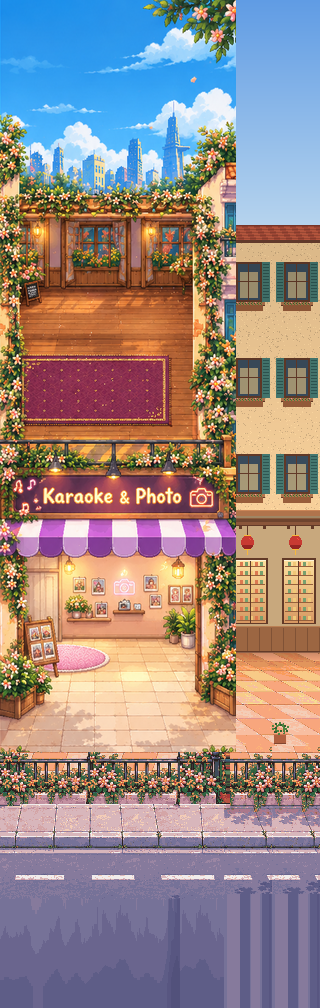
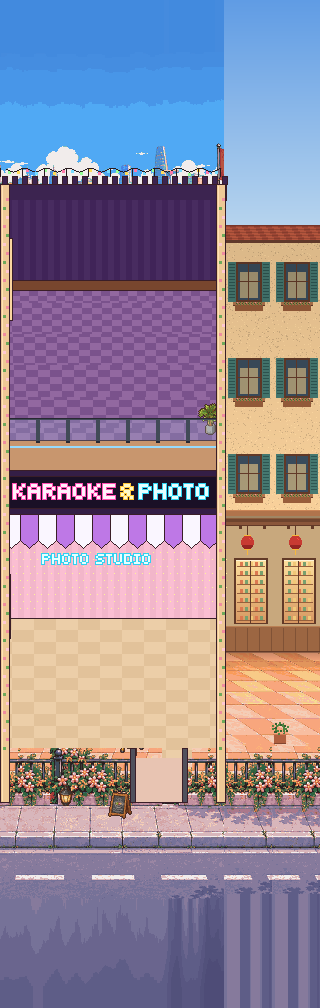
Lẩu Ơi v1.19e: khối Karaoke & Photo vẽ lại theo bản demo cũ
- Khối tím 2 tầng riêng bên phải: phòng Karaoke sàn caro tím, lan can kính, biển neon KARAOKE & PHOTO,
  mái che sọc tím, Photo Studio tường hồng chấm bi, cột hoa leo hai bên, cổng riêng ngoài vỉa hè
- Tầng chưa mở kéo cửa cuốn; dời đồ giải trí và khách cho khớp phòng mới

Claude-Session: https://claude.ai/code/session_01BD8ysNy2UsXiFAiTavnXvs

diff --git a/web/quanlau/src/config.js b/web/quanlau/src/config.js
@@ -578,17 +578,17 @@ export const DECO = [
   { id: 'db_xuongvien', cat: 'dacbiet', name: 'Xưởng Viên Thả Lẩu', price: 0, amb: 18, source: 'box', box: 'bt_xuongvien', effect: { tipMult: 1.15 }, desc: 'Viên cá, viên tôm ra liên tục. Tip +15%.' },
   { id: 'db_phatra', cat: 'dacbiet', name: 'Máy Pha Trà Thượng Hạng', price: 0, amb: 18, source: 'box', box: 'bt_phatra', effect: { tipMult: 1.1, patienceMult: 1.08 }, desc: 'Ấm men ngọc rót trà mời khách. Tip +10%, kiên nhẫn +8%.' },
   // v1.19 ĐỒ PHÒNG GIẢI TRÍ (bản demo): mở bằng nhiệm vụ phòng giải trí hoặc rút Hộp mù; fun = tầng + chỗ đặt (world px)
-  { id: 'gt_phong', cat: 'giaitri', name: 'Phông chụp + vòm hoa giấy', price: 0, amb: 8, source: 'box', box: 'bx_gt_phong', fun: { floor: 1, x: 230, y: 236 }, effect: { demandMult: 1.04 }, desc: 'Góc sống ảo của quán. Khách +4%.' },
-  { id: 'gt_denvong', cat: 'giaitri', name: 'Đèn vòng chụp ảnh', price: 0, amb: 3, source: 'box', box: 'bx_gt_denvong', fun: { floor: 1, x: 246, y: 252 }, effect: { tipMult: 1.03 }, desc: 'Ảnh lung linh, khách vui tip thêm. Tip +3%.' },
-  { id: 'gt_bongbay', cat: 'giaitri', name: 'Chùm bóng bay', price: 0, amb: 3, source: 'box', box: 'bx_gt_bongbay', fun: { floor: 1, x: 270, y: 290 }, effect: { patienceMult: 1.02 }, desc: 'Kiên nhẫn +2%.' },
-  { id: 'gt_polaroid', cat: 'giaitri', name: 'Tường ảnh polaroid', price: 0, amb: 4, source: 'box', box: 'bx_gt_polaroid', fun: { floor: 1, x: 270, y: 199, wall: true }, effect: { patienceMult: 1.03 }, desc: 'Khách ngắm ảnh trong lúc chờ. Kiên nhẫn +3%.' },
-  { id: 'gt_mayanh', cat: 'giaitri', name: 'Máy chụp ảnh lấy liền (to)', price: 0, amb: 8, source: 'box', box: 'bx_gt_mayanh', fun: { floor: 1, x: 272, y: 252 }, effect: { demandMult: 1.05 }, desc: 'Khách +5%.' },
-  { id: 'gt_gapthu', cat: 'giaitri', name: 'Máy gắp thú', price: 0, amb: 6, source: 'box', box: 'bx_gt_gapthu', fun: { floor: 1, x: 230, y: 288 }, effect: { patienceMult: 1.05 }, desc: 'Trẻ em mê lắm. Kiên nhẫn +5%.' },
-  { id: 'gt_neon', cat: 'giaitri', name: 'Bảng neon KARAOKE', price: 0, amb: 4, source: 'box', box: 'bx_gt_neon', fun: { floor: 2, x: 222, y: 33, wall: true }, effect: { demandMult: 1.02 }, desc: 'Khách +2%.' },
-  { id: 'gt_disco', cat: 'giaitri', name: 'Quả cầu disco', price: 0, amb: 4, source: 'box', box: 'bx_gt_disco', fun: { floor: 2, x: 264, y: 24, wall: true }, effect: { tipMult: 1.03 }, desc: 'Tip +3%.' },
-  { id: 'gt_sankhau', cat: 'giaitri', name: 'Sân khấu karaoke', price: 0, amb: 12, source: 'box', box: 'bx_gt_sankhau', fun: { floor: 2, x: 232, y: 84 }, effect: { demandMult: 1.06, patienceMult: 1.04 }, desc: 'Màn hình, loa, micro đủ bộ. Khách +6%, kiên nhẫn +4%.' },
-  { id: 'gt_quaynuoc', cat: 'giaitri', name: 'Quầy nước karaoke', price: 0, amb: 6, source: 'box', box: 'bx_gt_quaynuoc', fun: { floor: 2, x: 272, y: 80 }, effect: { tipMult: 1.05 }, desc: 'Tip +5%.' },
-  { id: 'gt_sofa', cat: 'giaitri', name: 'Sofa đỏ + bàn trà', price: 0, amb: 6, source: 'box', box: 'bx_gt_sofa', fun: { floor: 2, x: 236, y: 120 }, effect: { patienceMult: 1.05 }, desc: 'Khách ngồi chờ thoải mái. Kiên nhẫn +5%.' },
+  { id: 'gt_phong', cat: 'giaitri', name: 'Phông chụp + vòm hoa giấy', price: 0, amb: 8, source: 'box', box: 'bx_gt_phong', fun: { floor: 1, x: 243, y: 232 }, effect: { demandMult: 1.04 }, desc: 'Góc sống ảo của quán. Khách +4%.' },
+  { id: 'gt_denvong', cat: 'giaitri', name: 'Đèn vòng chụp ảnh', price: 0, amb: 3, source: 'box', box: 'bx_gt_denvong', fun: { floor: 1, x: 210, y: 256 }, effect: { tipMult: 1.03 }, desc: 'Ảnh lung linh, khách vui tip thêm. Tip +3%.' },
+  { id: 'gt_bongbay', cat: 'giaitri', name: 'Chùm bóng bay', price: 0, amb: 3, source: 'box', box: 'bx_gt_bongbay', fun: { floor: 1, x: 266, y: 288 }, effect: { patienceMult: 1.02 }, desc: 'Kiên nhẫn +2%.' },
+  { id: 'gt_polaroid', cat: 'giaitri', name: 'Tường ảnh polaroid', price: 0, amb: 4, source: 'box', box: 'bx_gt_polaroid', fun: { floor: 1, x: 290, y: 198, wall: true }, effect: { patienceMult: 1.03 }, desc: 'Khách ngắm ảnh trong lúc chờ. Kiên nhẫn +3%.' },
+  { id: 'gt_mayanh', cat: 'giaitri', name: 'Máy chụp ảnh lấy liền (to)', price: 0, amb: 8, source: 'box', box: 'bx_gt_mayanh', fun: { floor: 1, x: 288, y: 246 }, effect: { demandMult: 1.05 }, desc: 'Khách +5%.' },
+  { id: 'gt_gapthu', cat: 'giaitri', name: 'Máy gắp thú', price: 0, amb: 6, source: 'box', box: 'bx_gt_gapthu', fun: { floor: 1, x: 214, y: 288 }, effect: { patienceMult: 1.05 }, desc: 'Trẻ em mê lắm. Kiên nhẫn +5%.' },
+  { id: 'gt_neon', cat: 'giaitri', name: 'Bảng neon KARAOKE', price: 0, amb: 4, source: 'box', box: 'bx_gt_neon', fun: { floor: 2, x: 222, y: 22, wall: true }, effect: { demandMult: 1.02 }, desc: 'Khách +2%.' },
+  { id: 'gt_disco', cat: 'giaitri', name: 'Quả cầu disco', price: 0, amb: 4, source: 'box', box: 'bx_gt_disco', fun: { floor: 2, x: 276, y: 17, wall: true }, effect: { tipMult: 1.03 }, desc: 'Tip +3%.' },
+  { id: 'gt_sankhau', cat: 'giaitri', name: 'Sân khấu karaoke', price: 0, amb: 12, source: 'box', box: 'bx_gt_sankhau', fun: { floor: 2, x: 232, y: 79 }, effect: { demandMult: 1.06, patienceMult: 1.04 }, desc: 'Màn hình, loa, micro đủ bộ. Khách +6%, kiên nhẫn +4%.' },
+  { id: 'gt_quaynuoc', cat: 'giaitri', name: 'Quầy nước karaoke', price: 0, amb: 6, source: 'box', box: 'bx_gt_quaynuoc', fun: { floor: 2, x: 288, y: 86 }, effect: { tipMult: 1.05 }, desc: 'Tip +5%.' },
+  { id: 'gt_sofa', cat: 'giaitri', name: 'Sofa đỏ + bàn trà', price: 0, amb: 6, source: 'box', box: 'bx_gt_sofa', fun: { floor: 2, x: 234, y: 112 }, effect: { patienceMult: 1.05 }, desc: 'Khách ngồi chờ thoải mái. Kiên nhẫn +5%.' },
   { id: 'gt_gheluoi', cat: 'giaitri', name: 'Ghế lười', price: 0, amb: 3, source: 'box', box: 'bx_gt_gheluoi', fun: { floor: 2, x: 272, y: 126 }, effect: { patienceMult: 1.02 }, desc: 'Kiên nhẫn +2%.' },
   { id: 'db_karaoke',   cat: 'dacbiet', name: 'Dàn karaoke',   price: 40000, amb: 20, lv: 31, minTier: 4, effect: { patienceMult: 1.15 }, desc: 'Khách kiên nhẫn hơn 15%. Hàng xóm thì… hơi bực.' },
 ];

diff --git a/web/quanlau/src/art/layouts.js b/web/quanlau/src/art/layouts.js
@@ -167,17 +167,17 @@ const LAYOUTS = {
       waiters: [{ x: -50, y: 247 }, { x: -50, y: 86 }], view: [-100, 292], leftOnly: true },
     // v1.19 phòng giải trí bên phải: vùng trong phòng (world px) theo tầng, khách tham quan đứng / ngồi khi quán mở
     fun: {
-      rooms: { 1: { x0: 207, x1: 286, y0: 196, y1: 293 }, 2: { x0: 207, x1: 286, y0: 23, y1: 136 } },
-      view: 304,
+      rooms: { 1: { x0: 201, x1: 304, y0: 186, y1: 295 }, 2: { x0: 201, x1: 304, y0: 16, y1: 136 } },
+      view: 312,
       npcs: [
-        { floor: 1, x: 224, y: 240, pose: 'cheer', facing: 'down', need: 'gt_phong', kind: 'capdoi', seed: 3, idx: 0 },
-        { floor: 1, x: 236, y: 240, pose: 'cheer', facing: 'down', need: 'gt_phong', kind: 'capdoi', seed: 3, idx: 1 },
-        { floor: 1, x: 232, y: 266, pose: 'idle', facing: 'up', kind: 'hoiban', seed: 7, idx: 0 },
-        { floor: 1, x: 246, y: 290, pose: 'cheer', facing: 'down', need: 'gt_gapthu', kind: 'giadinh', seed: 5, idx: 2 },
-        { floor: 2, x: 246, y: 80, pose: 'cheer', facing: 'down', need: 'gt_sankhau', kind: 'hoiban', seed: 9, idx: 1 },
-        { floor: 2, x: 226, y: 121, sortY: 121, pose: 'sit', facing: 'down', need: 'gt_sofa', kind: 'vanphong', seed: 4, idx: 0 },
-        { floor: 2, x: 240, y: 121, sortY: 121, pose: 'sit', facing: 'down', need: 'gt_sofa', kind: 'sinhvien', seed: 2, idx: 0 },
-        { floor: 2, x: 268, y: 112, pose: 'cheer', facing: 'down', kind: 'capdoi', seed: 6, idx: 1 },
+        { floor: 1, x: 238, y: 232, pose: 'cheer', facing: 'down', need: 'gt_phong', kind: 'capdoi', seed: 3, idx: 1 },
+        { floor: 1, x: 249, y: 232, pose: 'cheer', facing: 'down', need: 'gt_phong', kind: 'capdoi', seed: 3, idx: 0 },
+        { floor: 1, x: 244, y: 260, pose: 'idle', facing: 'up', kind: 'hoiban', seed: 7, idx: 1 },
+        { floor: 1, x: 226, y: 290, pose: 'cheer', facing: 'down', need: 'gt_gapthu', kind: 'giadinh', seed: 5, idx: 2 },
+        { floor: 2, x: 246, y: 72, pose: 'cheer', facing: 'down', need: 'gt_sankhau', kind: 'hoiban', seed: 9, idx: 0 },
+        { floor: 2, x: 224, y: 110, sortY: 113, pose: 'sit', facing: 'down', need: 'gt_sofa', kind: 'vanphong', seed: 4, idx: 0 },
+        { floor: 2, x: 240, y: 110, sortY: 113, pose: 'sit', facing: 'down', need: 'gt_sofa', kind: 'sinhvien', seed: 2, idx: 1 },
+        { floor: 2, x: 286, y: 118, pose: 'cheer', facing: 'down', kind: 'capdoi', seed: 6, idx: 1 },
       ],
     },
   },

diff --git a/web/quanlau/src/art/assets.js b/web/quanlau/src/art/assets.js
@@ -8,7 +8,7 @@
 // drawn with blit() at a world position lands 1:1 on buffer pixels (crisp, no resampling).
 // Keep DETAIL in sync with `DETAIL` in src/render/renderer.js.
 export const DETAIL = 2;
-export const ASSET_VER = 'l19e';   // v1.18n: icons.png + props.png có thêm khung mới (Hộp mù) — PHẢI tăng khi đổi PNG
+export const ASSET_VER = 'l19f';   // v1.18n: icons.png + props.png có thêm khung mới (Hộp mù) — PHẢI tăng khi đổi PNG
 /** khung có nằm trong ảnh đã tải không (ảnh cũ trong bộ nhớ đệm + dữ liệu khung mới → Safari báo lỗi drawImage) */
 export const frameOk = (rec, f) => !!(rec && rec.img && f) && f[0] + f[2] <= (rec.img.naturalWidth || rec.img.width) && f[1] + f[3] <= (rec.img.naturalHeight || rec.img.height);
 

diff --git a/web/quanlau/src/art/scenes.js b/web/quanlau/src/art/scenes.js
@@ -12,7 +12,7 @@ const DECO_FUN = Object.fromEntries(DECO.filter((d) => d.fun).map((d) => [d.id, 
 function drawFunBack(ctx, L, env) {
   const FN = L && L.fun;
   if (!FN || !env.funAvail) return;
-  for (const fl of [1]) {                 // v1.19c lầu chưa xây thì ảnh nền đã là sân thượng, chỉ tầng trệt cần cửa cuốn
+  for (const fl of [1, 2]) {             // v1.19e tầng chưa mở kéo cửa cuốn
     const r = FN.rooms[fl];
     if ((env.funLevel | 0) >= fl) continue;
     const w = r.x1 - r.x0, h = r.y1 - r.y0;
